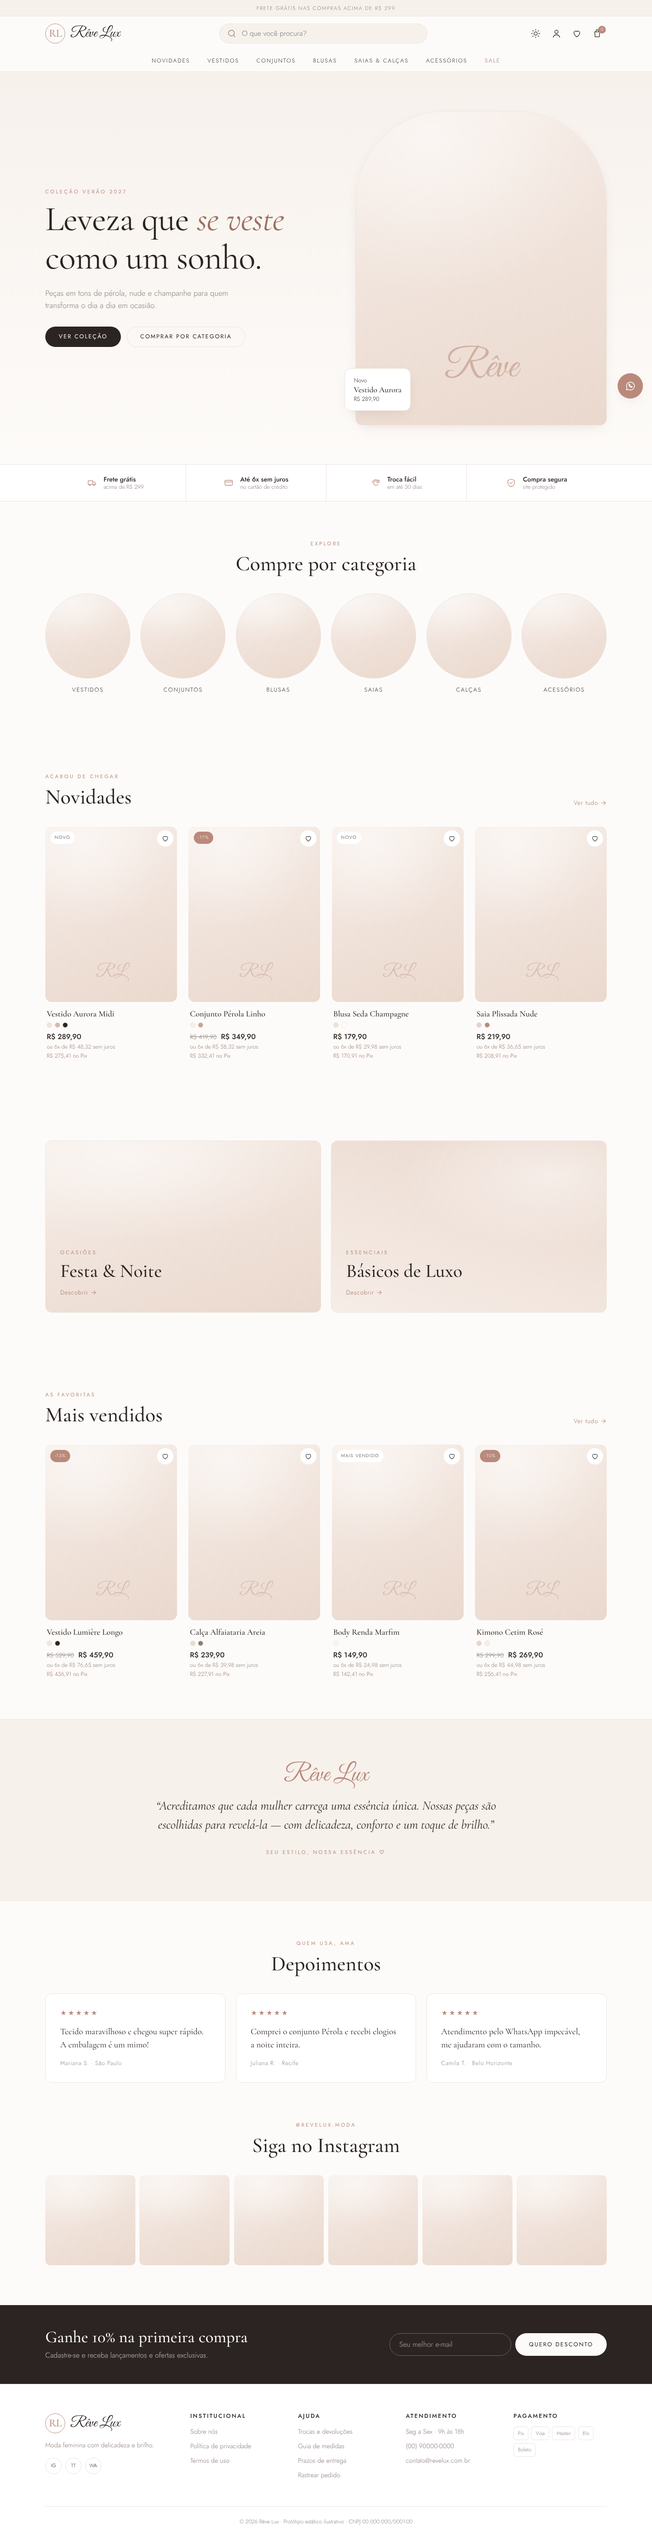
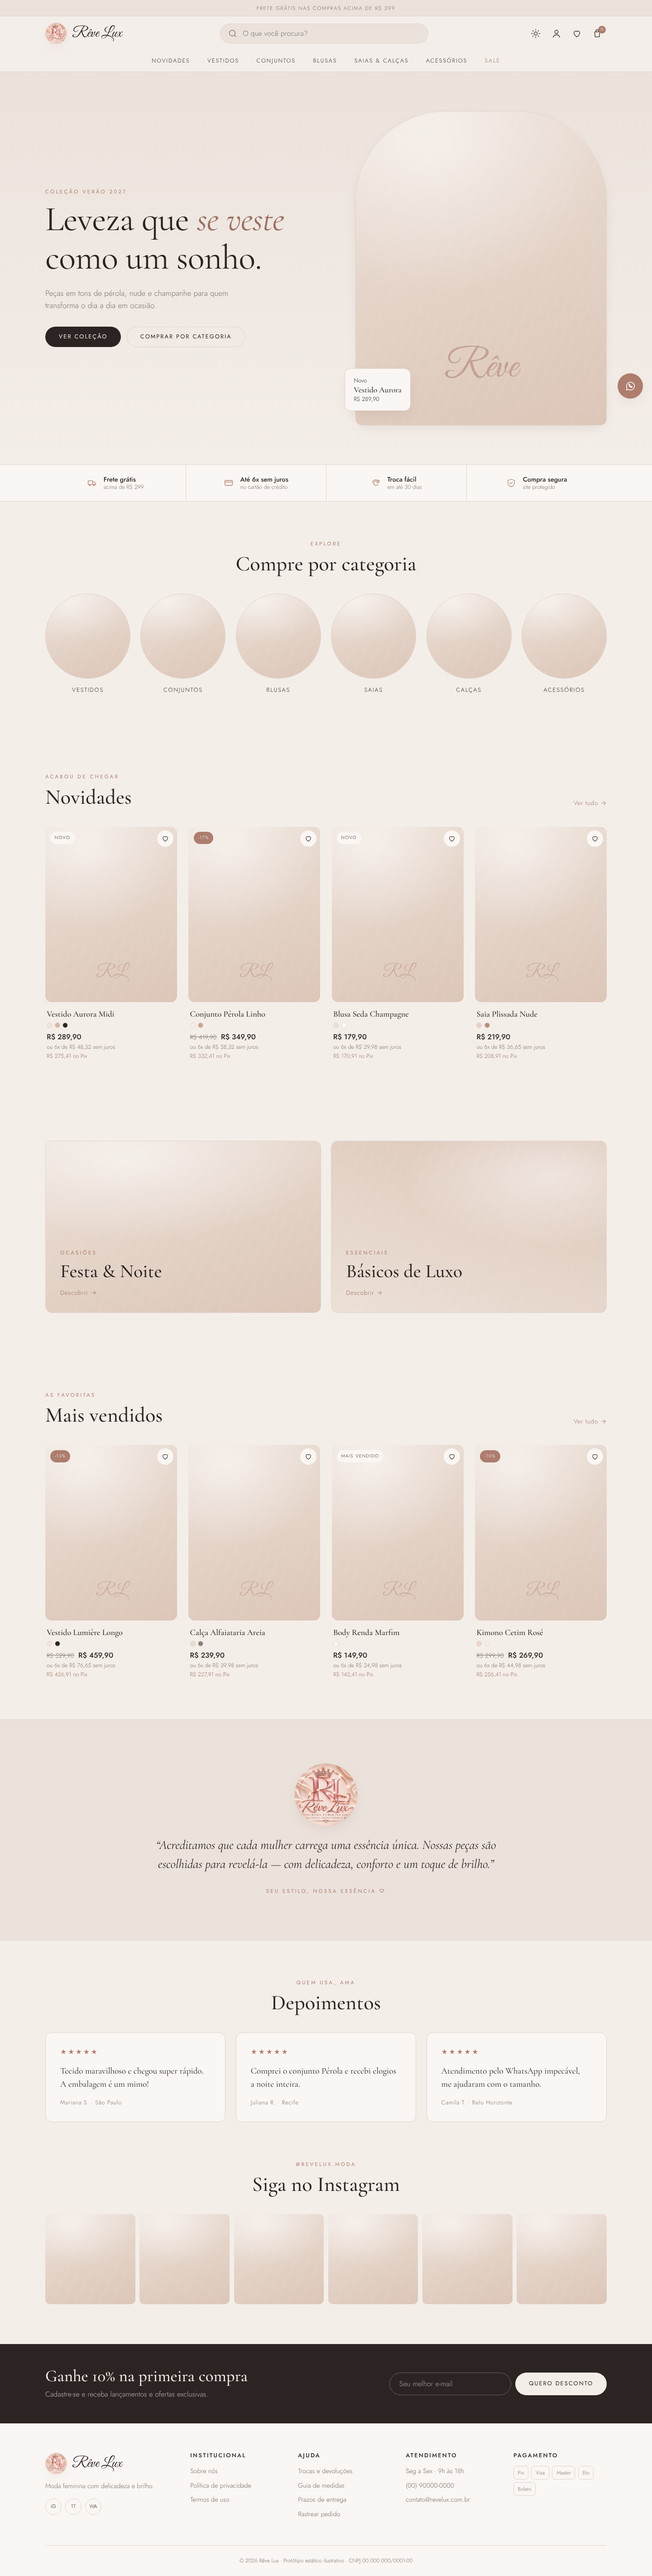
Adiciona foto de perfil no header e no manifesto; suaviza o tema claro
Claude-Session: https://claude.ai/code/session_01HpceKmjh5vKSyYhwKo51R3

diff --git a/assets/css/style.css b/assets/css/style.css
@@ -3,18 +3,18 @@
    Paleta: pérola / marfim / nude, com rosé-gold só como acento.
    ========================================================== */
 :root{
-  --bg:#fdfbf9;
-  --surface:#ffffff;
-  --surface-2:#f7f1ec;
+  --bg:#f4eee9;
+  --surface:#faf6f3;
+  --surface-2:#ebe2db;
   --text:#2b2422;
-  --muted:#8a7d78;
-  --line:#ece3dd;
-  --accent:#b98a7b;          /* rosé-gold suave */
+  --muted:#7c6e68;
+  --line:#dfd3ca;
+  --accent:#ad7d6e;          /* rosé-gold suave */
   --accent-strong:#9c6f61;
-  --accent-soft:#f3e6df;
+  --accent-soft:#e8d8ce;
   --on-accent:#ffffff;
   --shadow:0 10px 30px -12px rgba(120,80,65,.18);
-  --ph-a:#f6ede7; --ph-b:#ead8cd; /* placeholders de produto */
+  --ph-a:#ece0d7; --ph-b:#dcc6b8; /* placeholders de produto */
   --radius:14px;
   --serif:"Cormorant Garamond",Georgia,serif;
   --script:"Great Vibes",cursive;
@@ -78,6 +78,8 @@ svg{width:22px;height:22px;fill:none;stroke:currentColor;stroke-width:1.4;stroke
 .header__row{display:grid;grid-template-columns:auto 1fr auto;align-items:center;gap:1.5rem;height:76px}
 .brand{display:flex;align-items:center;gap:.7rem}
 .brand__mono{font:500 1.5rem/1 var(--serif);color:var(--accent);border:1px solid var(--accent);border-radius:50%;width:44px;height:44px;display:grid;place-items:center;letter-spacing:-.04em}
+.brand__logo{width:48px;height:48px;border-radius:50%;object-fit:cover;border:1px solid var(--line);box-shadow:var(--shadow)}
+.manifesto__logo{width:140px;height:140px;border-radius:50%;object-fit:cover;margin:0 auto;border:1px solid var(--line);box-shadow:var(--shadow)}
 .brand__name{font:400 2rem/1 var(--script);color:var(--text)}
 .search{display:flex;align-items:center;gap:.6rem;max-width:460px;width:100%;justify-self:center;background:var(--surface-2);border:1px solid var(--line);border-radius:999px;padding:0 1rem;height:44px;color:var(--muted)}
 .search input{flex:1;border:0;background:transparent;outline:0;font:inherit;color:var(--text)}
@@ -251,7 +253,7 @@ svg{width:22px;height:22px;fill:none;stroke:currentColor;stroke-width:1.4;stroke
   .nav,.search,.hide-sm{display:none}
   .header__row{grid-template-columns:auto 1fr auto;height:64px;gap:.4rem}
   .brand{justify-self:center}
-  .brand__mono{display:none}
+  .brand__logo{width:38px;height:38px}
   .hero__grid{grid-template-columns:1fr}
   .hero__art{order:-1;max-width:340px;margin-inline:auto;width:100%}
   .hero__tag{left:0}

diff --git a/index.html b/index.html
@@ -29,7 +29,7 @@
       <svg viewBox="0 0 24 24"><path d="M4 7h16M4 12h16M4 17h10"/></svg>
     </button>
     <a href="#top" class="brand" aria-label="Rêve Lux — início">
-      <span class="brand__mono">RL</span>
+      <img class="brand__logo" src="assets/logo-revelux.jpg" alt="" width="48" height="48">
       <span class="brand__name">Rêve Lux</span>
     </a>
     <form class="search" role="search" onsubmit="return false">
@@ -133,7 +133,7 @@
 <!-- 9. Manifesto da marca -->
 <section class="manifesto">
   <div class="container manifesto__inner reveal">
-    <span class="script">Rêve Lux</span>
+    <img class="manifesto__logo" src="assets/logo-revelux.jpg" alt="Logo Rêve Lux" width="140" height="140">
     <p>“Acreditamos que cada mulher carrega uma essência única. Nossas peças são escolhidas para revelá-la — com delicadeza, conforto e um toque de brilho.”</p>
     <span class="eyebrow">Seu estilo, nossa essência ♡</span>
   </div>
@@ -175,7 +175,7 @@
 <footer class="footer">
   <div class="container footer__grid">
     <div>
-      <a href="#top" class="brand"><span class="brand__mono">RL</span><span class="brand__name">Rêve Lux</span></a>
+      <a href="#top" class="brand"><img class="brand__logo" src="assets/logo-revelux.jpg" alt="" width="48" height="48"><span class="brand__name">Rêve Lux</span></a>
       <p class="muted">Moda feminina com delicadeza e brilho.</p>
       <div class="socials"><a href="#" aria-label="Instagram">IG</a><a href="#" aria-label="TikTok">TT</a><a href="#" aria-label="WhatsApp">WA</a></div>
     </div>

diff --git a/README.md b/README.md
@@ -24,10 +24,10 @@ docs/screenshots/     # Capturas desktop (claro/escuro) e mobile
 ## Identidade visual
 | Token | Claro | Escuro | Uso |
 |---|---|---|---|
-| `--bg` | `#fdfbf9` pérola | `#16120f` | fundo |
-| `--surface-2` | `#f7f1ec` marfim | `#261f1b` | faixas e áreas de apoio |
+| `--bg` | `#f4eee9` pérola | `#16120f` | fundo |
+| `--surface-2` | `#ebe2db` marfim | `#261f1b` | faixas e áreas de apoio |
 | `--text` | `#2b2422` | `#f2e9e4` | texto |
-| `--accent` | `#b98a7b` rosé-gold suave | `#d4a998` | detalhes, preços no Pix, selos |
+| `--accent` | `#ad7d6e` rosé-gold suave | `#d4a998` | detalhes, preços no Pix, selos |
 
 Tipografia: **Great Vibes** (script, como no logo), **Cormorant Garamond** (títulos) e **Jost** (texto e interface).
 O rosa forte do logo virou um rosé-gold discreto, usado só como acento sobre uma base branca e pérola.
